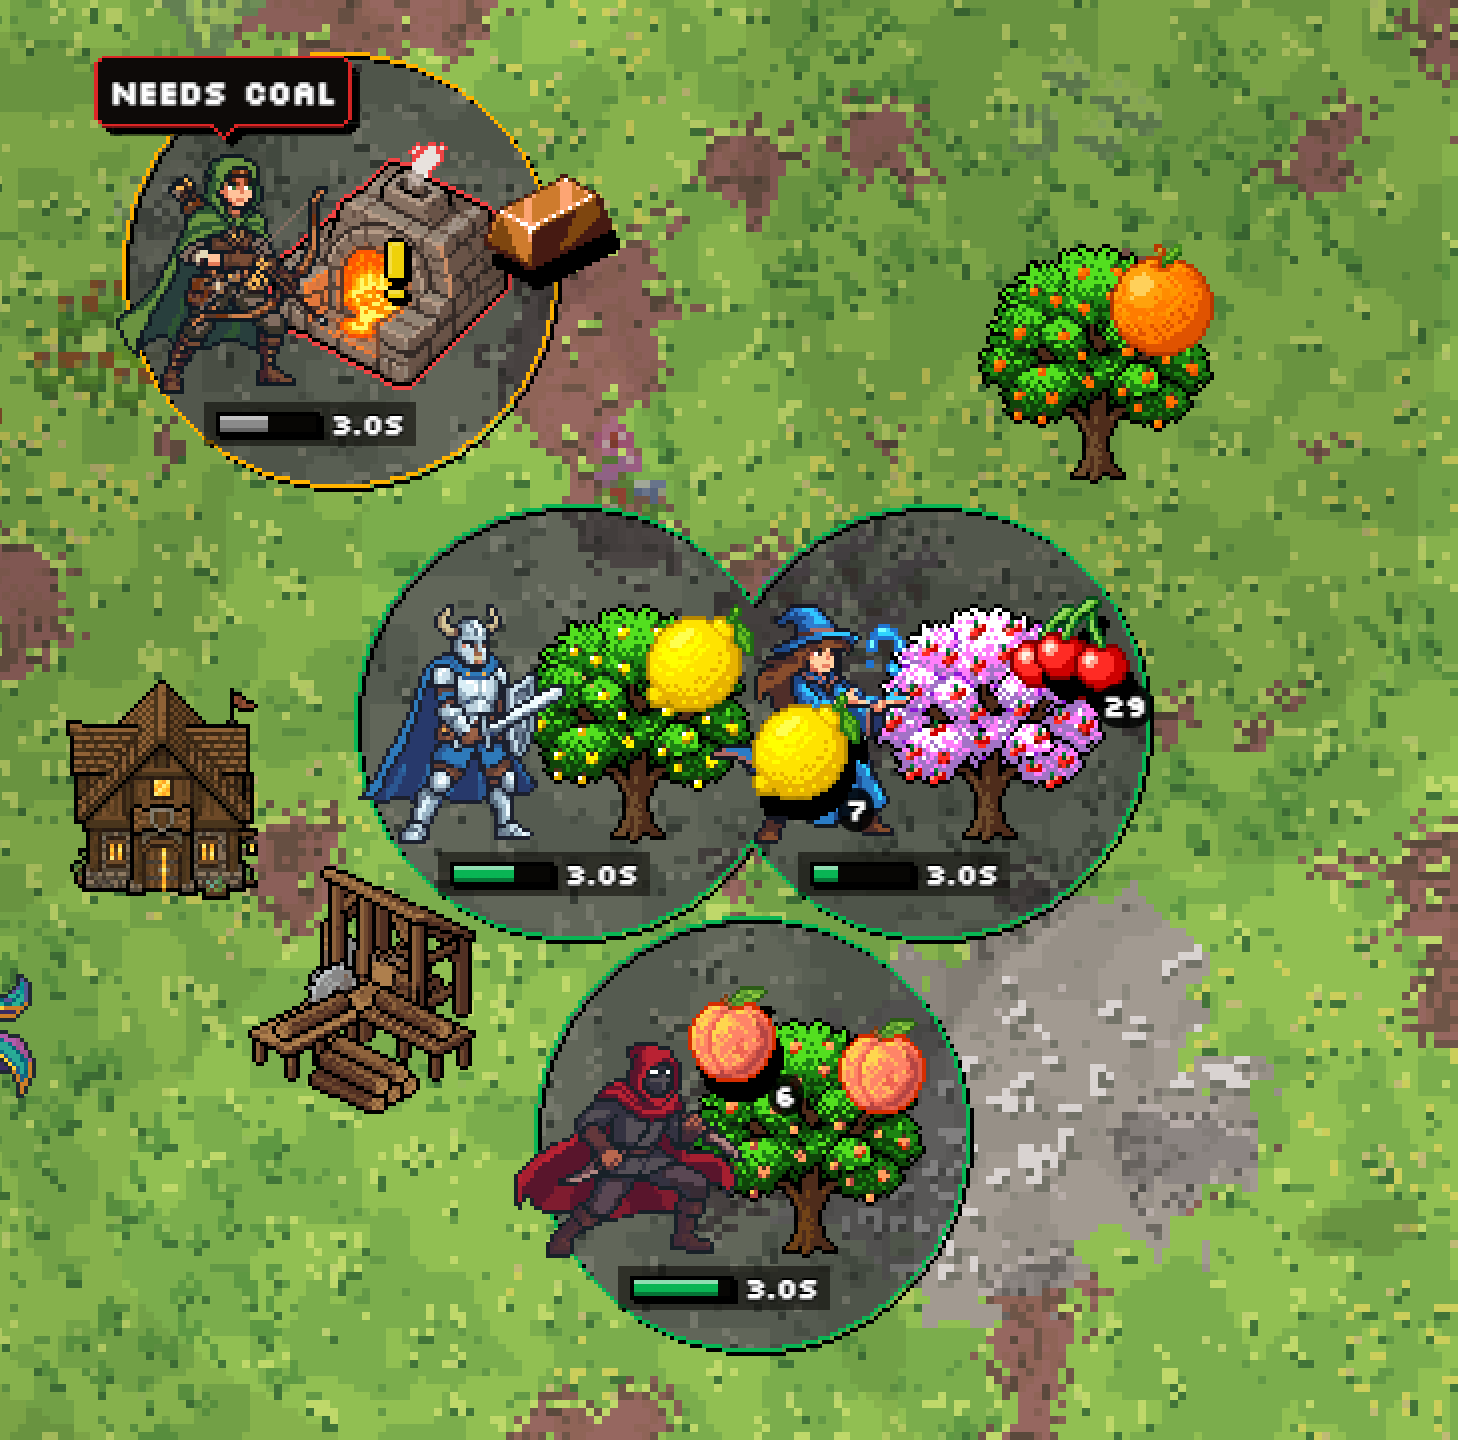
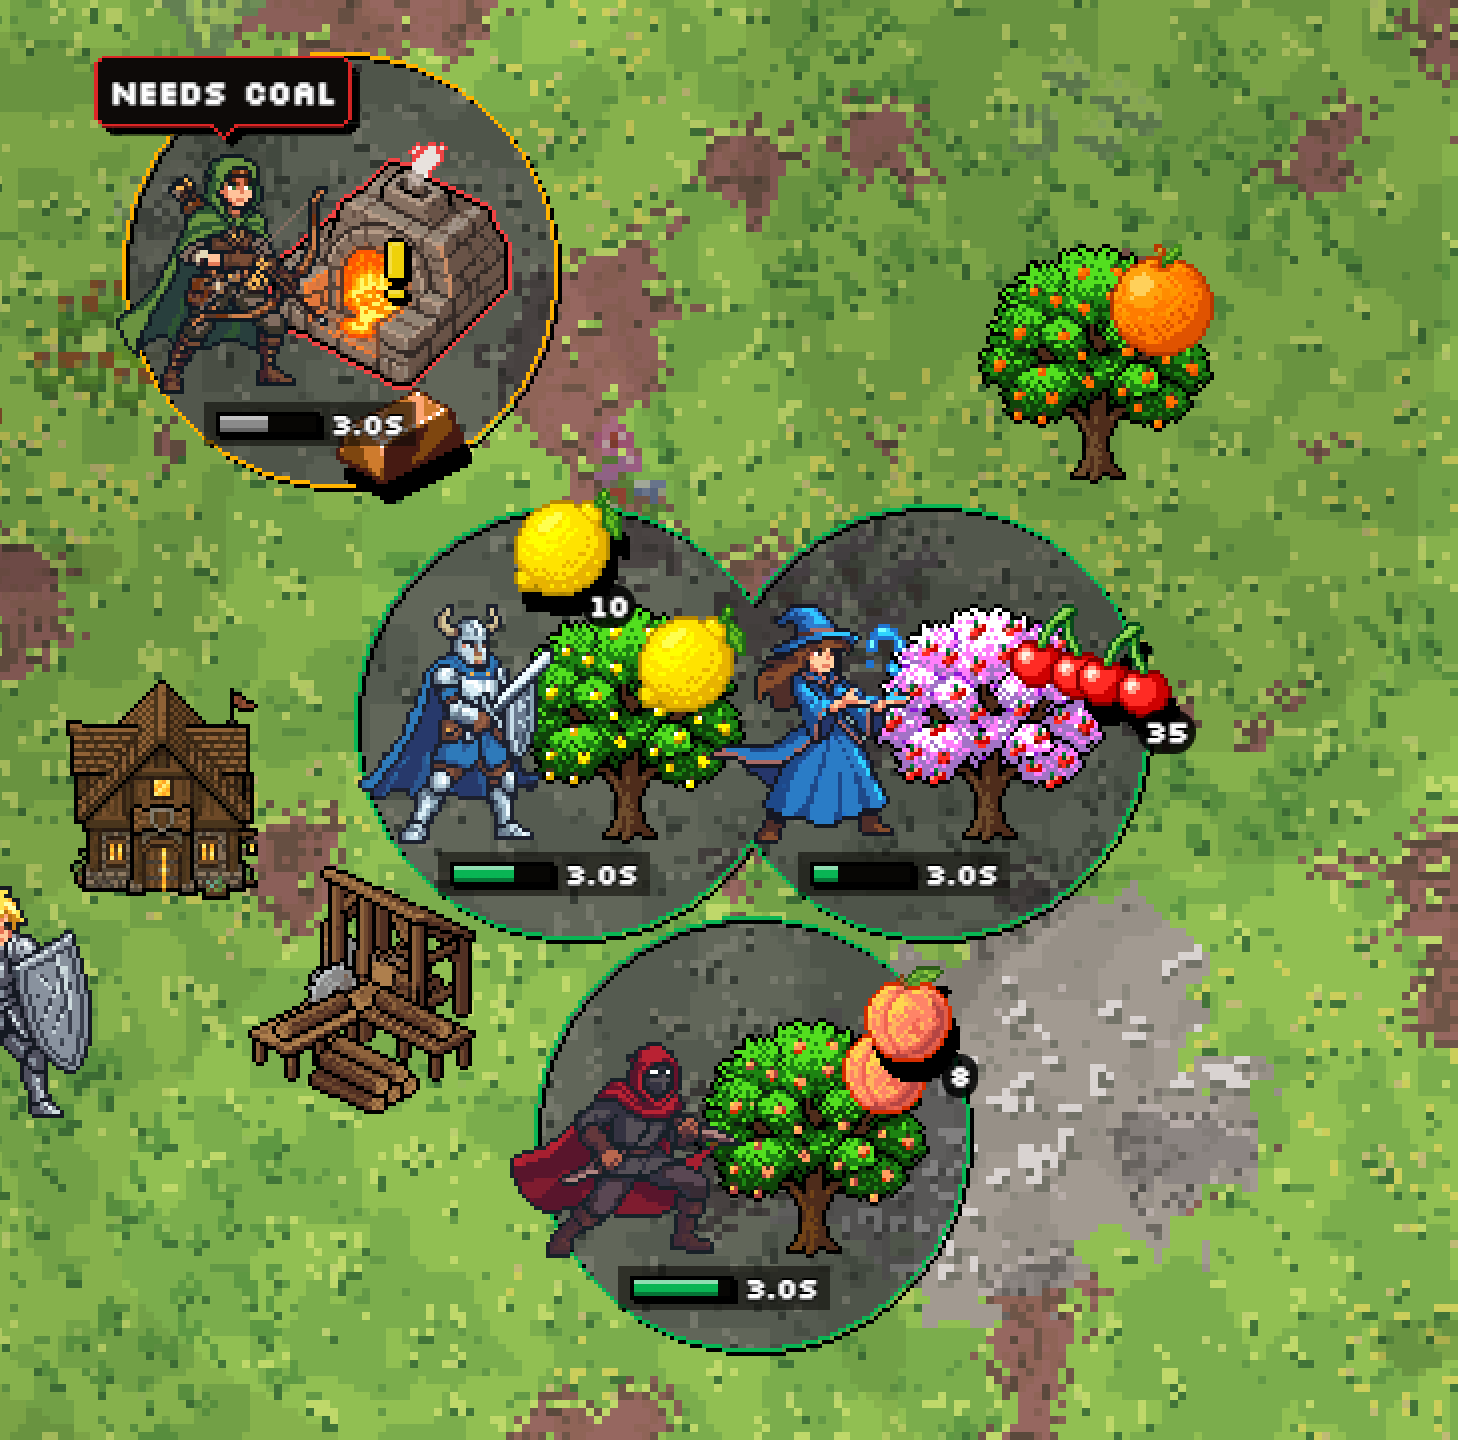
Names on the mat: the soft rainbow on, each hue 35 percent into white, 5.6 s a loop (brief 830 D3, look F made subtle); F2 shot from the built game

diff --git a/src/tests/MatMarks.test.js b/src/tests/MatMarks.test.js
@@ -94,20 +94,35 @@ describe('⭐ the reach dot’s dark backing', () => {
 });
 
 describe('⭐ the name label', () => {
-    it('sits on the see-through dark backing; the rainbow is off', () => {
+    it('sits on the see-through dark backing, with the soft rainbow on (the owner, 2026-11-23)', () => {
         const { container } = render(h(TokenNameBadge, { name: 'Oak Tree', shown: true }));
         const span = container.querySelector('[data-token-name] span');
         expect(span.className).toContain('gi-name-backing');
-        expect(NAME_SHIMMER).toBe(false);
-        expect(span.className).not.toContain('gi-name-shimmer');
-        expect(span.getAttribute('data-text')).toBeNull();
+        expect(NAME_SHIMMER).toBe(true);
+        expect(span.className).toContain('gi-name-shimmer');
+        // The sweep's copy reads the very same words.
+        expect(span.getAttribute('data-text')).toBe('Oak Tree');
+        expect(span.textContent).toBe('Oak Tree');
+    });
+
+    it('the rainbow is subtle: every band mostly white (35 % of its hue), all seven hues, red first, 5.6 s a loop', () => {
+        const css = fs.readFileSync(path.resolve(SRC, 'tailwind.css'), 'utf8');
+        const rule = /\.gi-name-shimmer::after \{([^}]*)\}/.exec(css)[1];
+        const bands = [...rule.matchAll(/#([0-9a-f]{6}) \d+(?:px)? \d+px/g)].map(m => m[1]);
+        const hues = ['ff4d4d', 'ffa53d', 'ffe94d', '4dff7a', '4dd8ff', '7d6bff', 'ff5cdc'];
+        const tint = (hex) => hex.match(/../g).map(c => Math.round(255 - 0.35 * (255 - parseInt(c, 16))).toString(16).padStart(2, '0')).join('');
+        expect(bands).toEqual(hues.map(tint));
+        // Mostly white: no channel of any band below 186 (of 255).
+        for (const b of bands) for (const c of b.match(/../g)) expect(parseInt(c, 16)).toBeGreaterThanOrEqual(186);
+        expect(rule).toMatch(/animation: gi-name-sweep 5\.6s steps\(42\) infinite;/);
+        expect(css).toMatch(/@keyframes gi-name-sweep \{\s*from \{ background-position: 0 0; \}\s*to \{ background-position: 84px 0; \}/);
     });
 
     it('the backing and the rainbow are written once, in the style sheet, the rainbow paused while minimised', () => {
         const css = fs.readFileSync(path.resolve(SRC, 'tailwind.css'), 'utf8');
         expect(css).toMatch(/--color-mat-backing: rgba\(10, 8, 6, 0\.58\);/);
         expect(css).toMatch(/\.gi-name-backing \{\s*background: var\(--color-mat-backing\);/);
-        expect(css).toMatch(/\.gi-name-shimmer::after \{[^}]*content: attr\(data-text\);[^}]*#ff4d4d[^}]*steps\(28\)/);
+        expect(css).toMatch(/\.gi-name-shimmer::after \{[^}]*content: attr\(data-text\);[^}]*#ffc1c1[^}]*steps\(42\)/);
         expect(css).toMatch(/body\[data-paused\] \.gi-name-shimmer::after \{\s*animation-play-state: paused;/);
     });
 });

diff --git a/src/tailwind.css b/src/tailwind.css
@@ -738,9 +738,10 @@
   padding: 2px 6px 3px;
 }
 
-/* The rainbow across a name's letters (look F), drawn only while `NAME_SHIMMER` is on
-   (`TokenBadges.jsx`): a copy of the name over it (`data-text`), its fill seven hard bands, red
-   first, moving right 2px a step, 56px a loop in 2.8 s. The black outline stays underneath. */
+/* The rainbow across a name's letters (look F, made subtle: owner 2026-11-23), drawn while
+   `NAME_SHIMMER` is on (`TokenBadges.jsx`): a copy of the name over it (`data-text`), its fill
+   seven hard bands, red first, each hue mixed 35 % into white so the letters stay mostly white,
+   moving right 2px a step, 84px a loop in 5.6 s. The black outline stays underneath. */
 .gi-name-shimmer {
   position: relative;
 }
@@ -752,17 +753,17 @@
   padding: inherit;
   color: transparent;
   text-shadow: none !important;
-  background-image: repeating-linear-gradient(90deg, #ff4d4d 0 8px, #ffa53d 8px 16px, #ffe94d 16px 24px, #4dff7a 24px 32px, #4dd8ff 32px 40px, #7d6bff 40px 48px, #ff5cdc 48px 56px);
-  background-size: 56px 100%;
+  background-image: repeating-linear-gradient(90deg, #ffc1c1 0 12px, #ffe0bb 12px 24px, #fff7c1 24px 36px, #c1ffd0 36px 48px, #c1f1ff 48px 60px, #d2cbff 60px 72px, #ffc6f3 72px 84px);
+  background-size: 84px 100%;
   -webkit-background-clip: text;
   background-clip: text;
-  animation: gi-name-sweep 2.8s steps(28) infinite;
+  animation: gi-name-sweep 5.6s steps(42) infinite;
   pointer-events: none;
 }
 
 @keyframes gi-name-sweep {
   from { background-position: 0 0; }
-  to { background-position: 56px 0; }
+  to { background-position: 84px 0; }
 }
 
 @media (prefers-reduced-motion: reduce) {

diff --git a/src/ui/components/board/TokenBadges.jsx b/src/ui/components/board/TokenBadges.jsx
@@ -21,11 +21,11 @@ import { getSkill, DEMOLITION_SKILL_ID } from '../../../config/registries/skillR
  * any of these change.
  */
 /**
- * ⚠ The one switch for a rainbow sweeping across every name's letters (look F,
- * docs/active/research/mat_marks): off until the owner asks for it. On, each name gets
- * `.gi-name-shimmer` (tailwind.css) and its text again in `data-text` for the sweep's copy.
+ * ⚠ The one switch for the soft rainbow sweeping across every name's letters (look F, made subtle,
+ * docs/active/research/mat_marks): on, each name gets `.gi-name-shimmer` (tailwind.css) and its
+ * text again in `data-text` for the sweep's copy. Off, names are plain white on their backing.
  */
-export const NAME_SHIMMER = false;
+export const NAME_SHIMMER = true;
 
 export const TokenNameBadge = memo(function TokenNameBadge({ name, isDragging, shown = false, below = false, offset = 0, foot = null }) {
     if (!name || isDragging || !shown) return null;

diff --git a/docs/active/research/mat_marks/index.html b/docs/active/research/mat_marks/index.html
@@ -44,6 +44,13 @@
     progress bar and the time one cycle takes, in A, B, C and P. Pick one letter for the name and dot look;
     say if the bar itself should change.</p>
 
+  <figure class="wide">
+    <img src="F2_anim.png" alt="F, made subtle, as built: a soft rainbow across the name, moving">
+    <figcaption><span class="letter">F</span><span class="name">The names' rainbow, made subtle: built and on</span>
+      <span class="desc">The owner liked F but wanted it softer: each of the seven hues (red first) is mixed 35 % into white, so the letters stay mostly white; bands 12px wide, sweeping 2px a step, 5.6 s a loop (F was 2.8 s). Shot from the built game.</span>
+      <span class="links"><a href="F2_frames.png">four moments</a></span></figcaption>
+  </figure>
+
   <h2>As built: look A, the green bar</h2>
   <div class="grid">
     <figure>

diff --git a/src/tests/TokenBubbles.test.js b/src/tests/TokenBubbles.test.js
@@ -599,7 +599,7 @@ describe('on the mat (MatToken)', () => {
         expect(nameFoot(container, t)).toBeLessThan(barPlace({ x: t.x, y: t.y, typeId: t.typeId, fit: 1 }).top);
         const label = container.querySelector(`[data-token-overlay="${t.id}"] [data-token-name] span`);
         expect(label.className).toContain('gi-name-backing');
-        expect(label.className).not.toContain('gi-name-shimmer');
+        expect(label.className).toContain('gi-name-shimmer');
     });
 
     it('⭐ the mark is drawn in the centre at the Token’s own art-pixel size', () => {

diff --git a/CHANGELOG.md b/CHANGELOG.md
@@ -4,7 +4,7 @@ All notable changes to Fantasy Guild are recorded here. Version 0.3.0 is the
 project's first tagged baseline — everything before it was untagged development.
 
 ## [Unreleased]
-- **Fewer marks on the mat: a green work bar with its cycle time, a still '!' in the Token's centre, no tooltips, names that stand out** (brief 830 D3, T-667). The work plate and the idle plate are gone. A worked Token shows a green bar filling with each cycle (a lighter top row and a darker foot row, in a black outline with a hard shadow; grey while the job is blocked) and beside it the time one cycle takes ("3.0s"), which changes only when the cycle does, so a speed boost shows as a smaller number. Charges, the skill and timers are on the Token card only. A Token's '!' now stands still in its centre; resting on a Token that takes a recipe shows the gear there instead (pulsing while nothing is chosen), and a click on it opens the card, as a right-click does; a Token marked for demolition shows its badge there over any '!'. A full Token cap gives each spawner a yellow '!' (it waits for room, it is not broken), which goes once the pointer rests on that spawner and comes back only after the cap frees and fills again. Nothing on the mat has a hover tooltip any more: the enemy card, the '!' reason, the plate's cells, the flag's tooltip, the Guild Hall's Passive Production and the Token's title text are gone; the Token card now says the problem in words under its name, in the '!''s colour. Resting on a station with a recipe chosen shows that recipe's output in a speech bubble over it. Names on the mat and the reach dots sit on a see-through dark backing (the owner's pick, look A). A rainbow across the names' letters (look F) is built and off, one switch (`NAME_SHIMMER`). Display only; the engine bench should read same work.
+- **Fewer marks on the mat: a green work bar with its cycle time, a still '!' in the Token's centre, no tooltips, names that stand out** (brief 830 D3, T-667). The work plate and the idle plate are gone. A worked Token shows a green bar filling with each cycle (a lighter top row and a darker foot row, in a black outline with a hard shadow; grey while the job is blocked) and beside it the time one cycle takes ("3.0s"), which changes only when the cycle does, so a speed boost shows as a smaller number. Charges, the skill and timers are on the Token card only. A Token's '!' now stands still in its centre; resting on a Token that takes a recipe shows the gear there instead (pulsing while nothing is chosen), and a click on it opens the card, as a right-click does; a Token marked for demolition shows its badge there over any '!'. A full Token cap gives each spawner a yellow '!' (it waits for room, it is not broken), which goes once the pointer rests on that spawner and comes back only after the cap frees and fills again. Nothing on the mat has a hover tooltip any more: the enemy card, the '!' reason, the plate's cells, the flag's tooltip, the Guild Hall's Passive Production and the Token's title text are gone; the Token card now says the problem in words under its name, in the '!''s colour. Resting on a station with a recipe chosen shows that recipe's output in a speech bubble over it. Names on the mat and the reach dots sit on a see-through dark backing (the owner's pick, look A). A soft rainbow sweeps slowly across the names' letters (look F, made subtle: each hue mixed 35 % into white, 5.6 s a loop; paused while minimised), one switch (`NAME_SHIMMER`). Display only; the engine bench should read same work.
 - **The Token card points at its Token, and the Token comes forward** (brief 830 D2, T-666). A tail on the card's edge facing the Token, like a speech bubble's, aims at it, follows it if it moves and flips with the card's side. While the card is open its Token is drawn over every hero and Token in the gold outline (its hero's flag still over it). Scroll arrows show only while there is more that way, on every list that uses them; a bar keeps its space so the list never jumps. The recipe choice lives in the card: a station, field or Foundation with nothing chosen opens straight on its list; with one chosen, on its usual face with the Change button (a Foundation's now reads Change building). The mat's recipe gear opens the card as a right-click does.
 - **Orders are drag and drop only; a right-click opens a Token's card or a hero's drawer** (brief 830 D1, T-665). Selecting with a click and ordering with a right-click (brief 610) are gone: a plain click on the mat does nothing and nothing wears the gold selection outline. A right-click on a Token opens its card, on a hero (on the mat or the hero bar) their Hero drawer; it is never an order, and double-click no longer opens anything. A plain click on a hero bar card opens that hero's drawer. Right-click-to-stop goes too: drop a hero on bare ground to have them wait there, or on the Guild Hall to send them home. A hero dropped on bare ground already went exactly where they were let go (no room test), and still does. Demolish clicks are unchanged.
 - **News from time away is told once, problem banners clear themselves, and events leave as Expired** (brief 795 M3, T-506, T-507, T-503). Closing While you were away no longer raises every recipe, knock-out and Bank refusal again as banners: the summary is their record, and only what still needs the player stays, judged on the game at that moment (an item on the mat the Bank refuses now, an event still standing); first finds keep their gold stub. A time away too short for the summary still hands its news to the banners as before. A Bank full or stack full banner now goes by itself once the Bank would take its items (a free slot, or that stack below its limit), naming only the items still waiting; milestone banners and knock-outs stay until clicked. The summary lists events one line per kind, as Fish Shoal ×3 · 2 expired · 1 still here (and demolished when any); a single event says Expired, Demolished or Still here, or how long it has left. Messages only; the engine bench should read same work.
